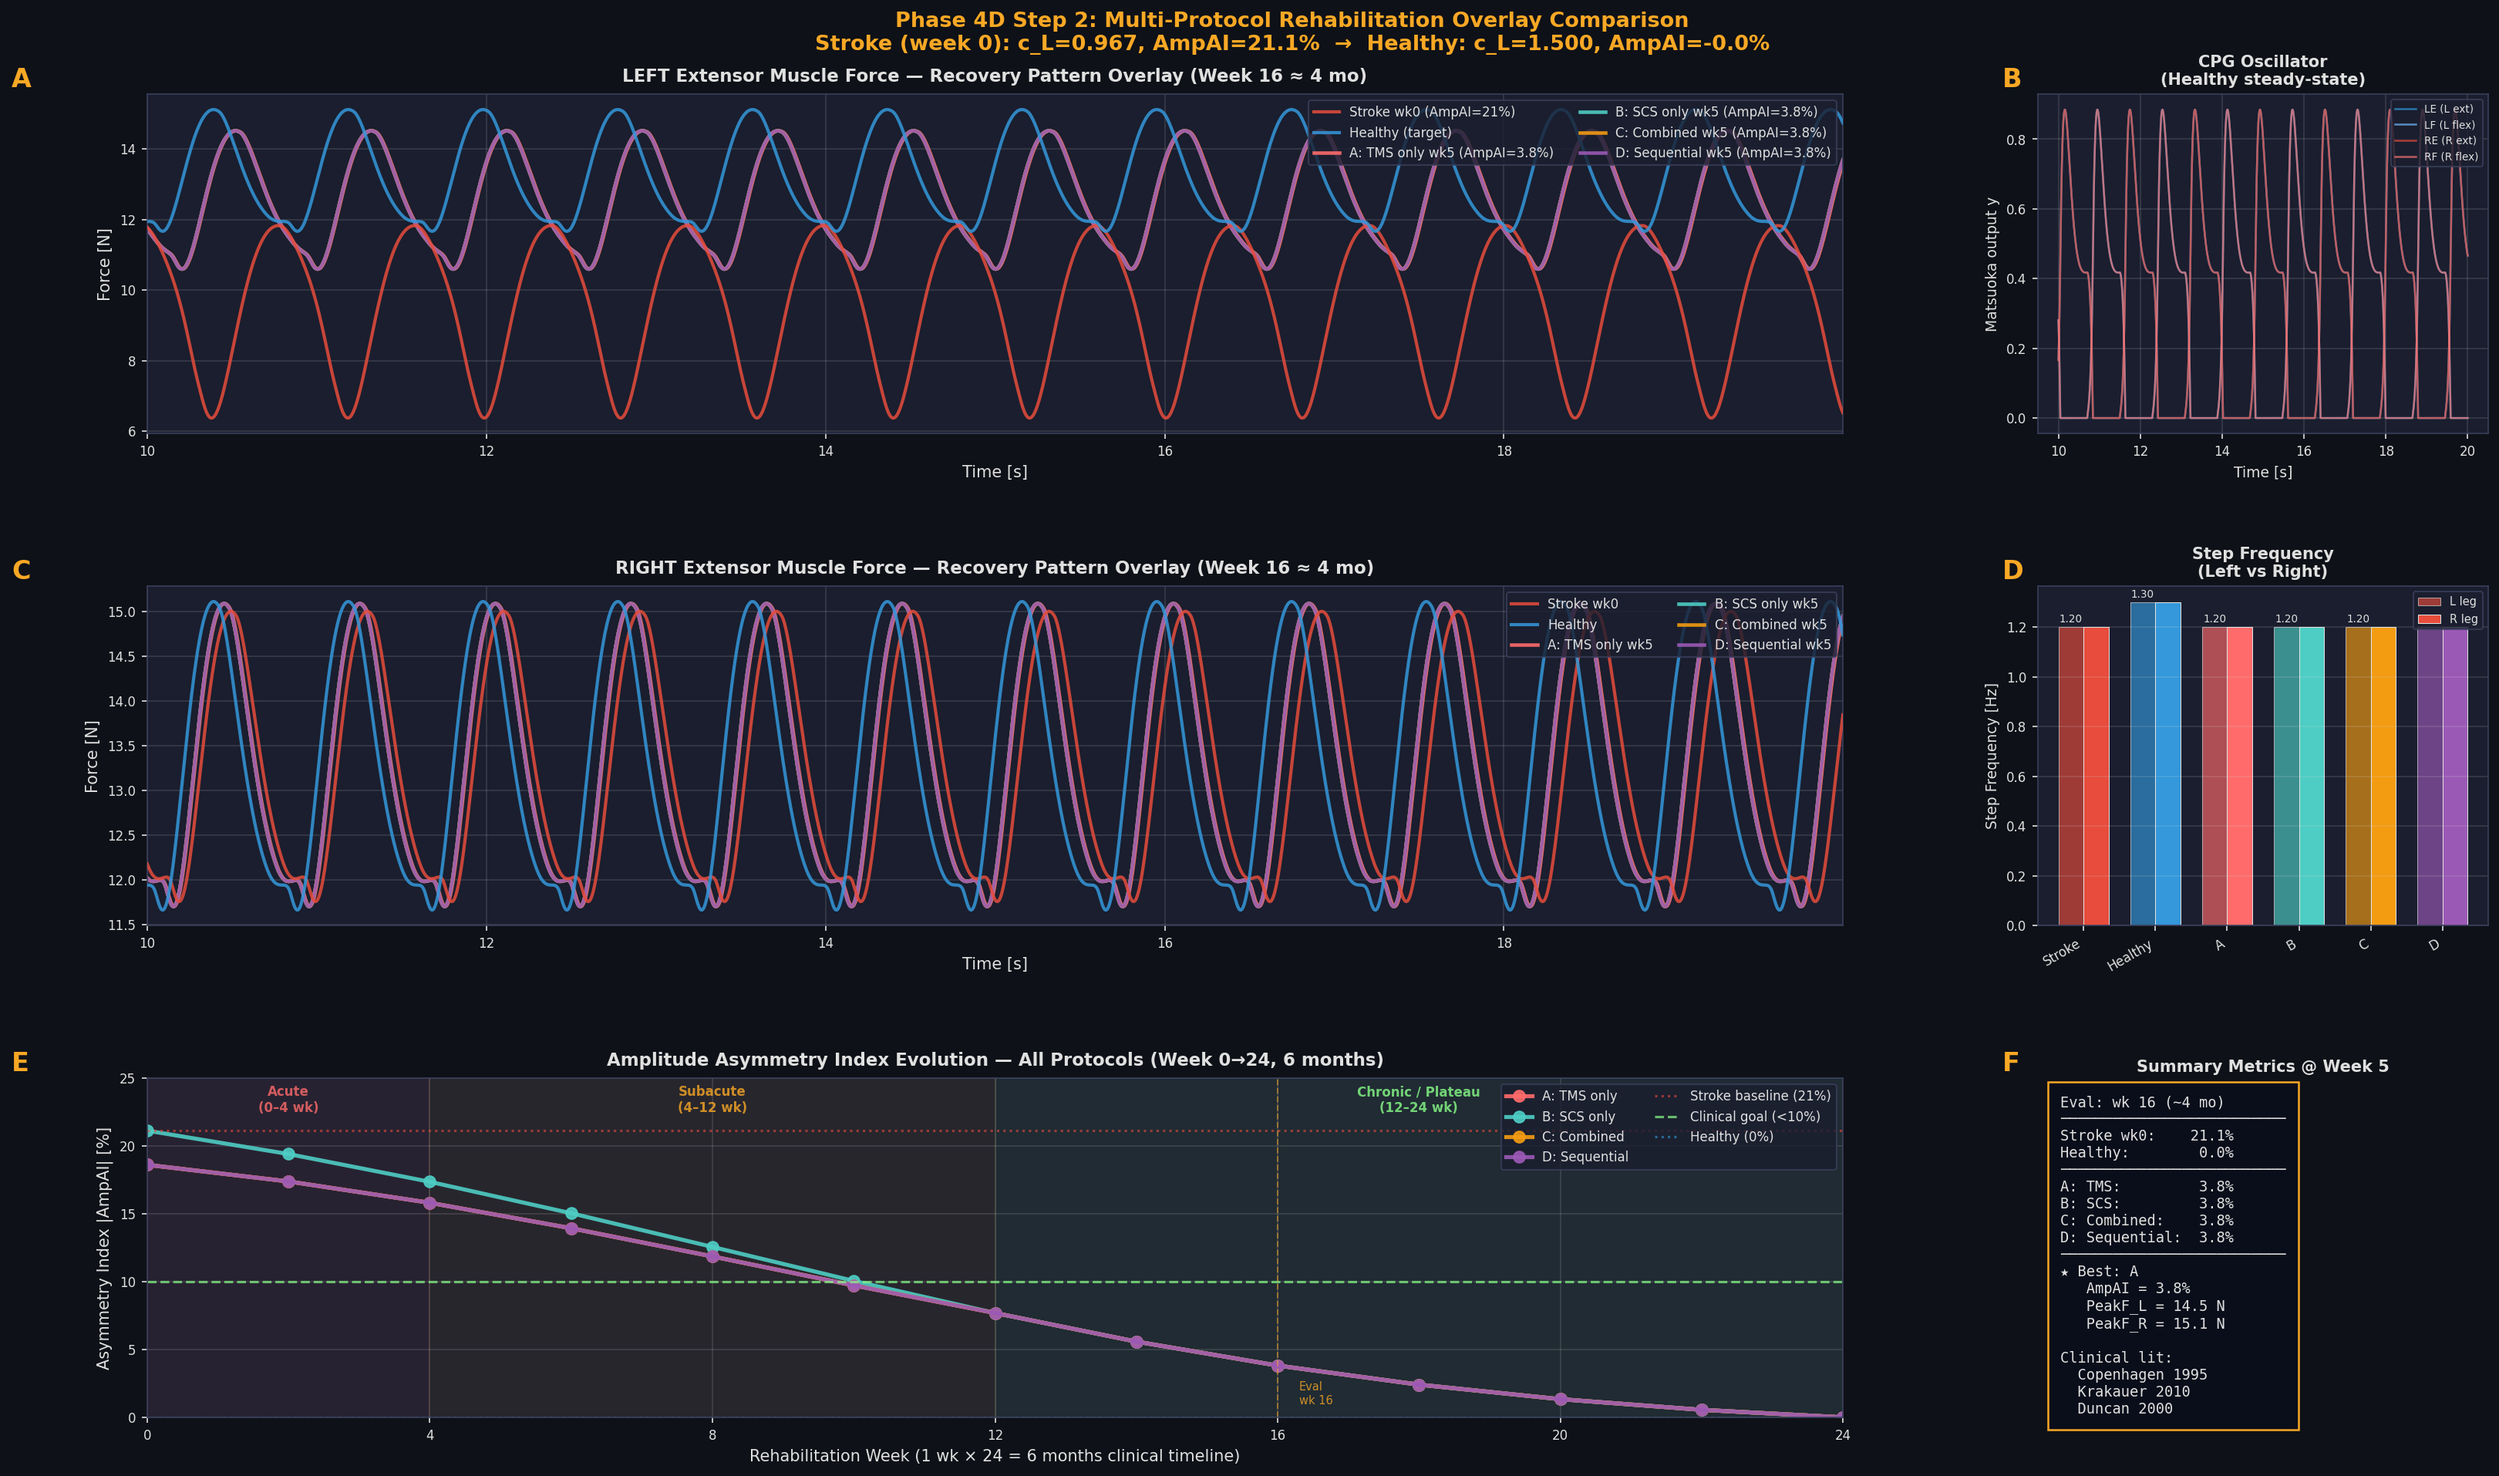
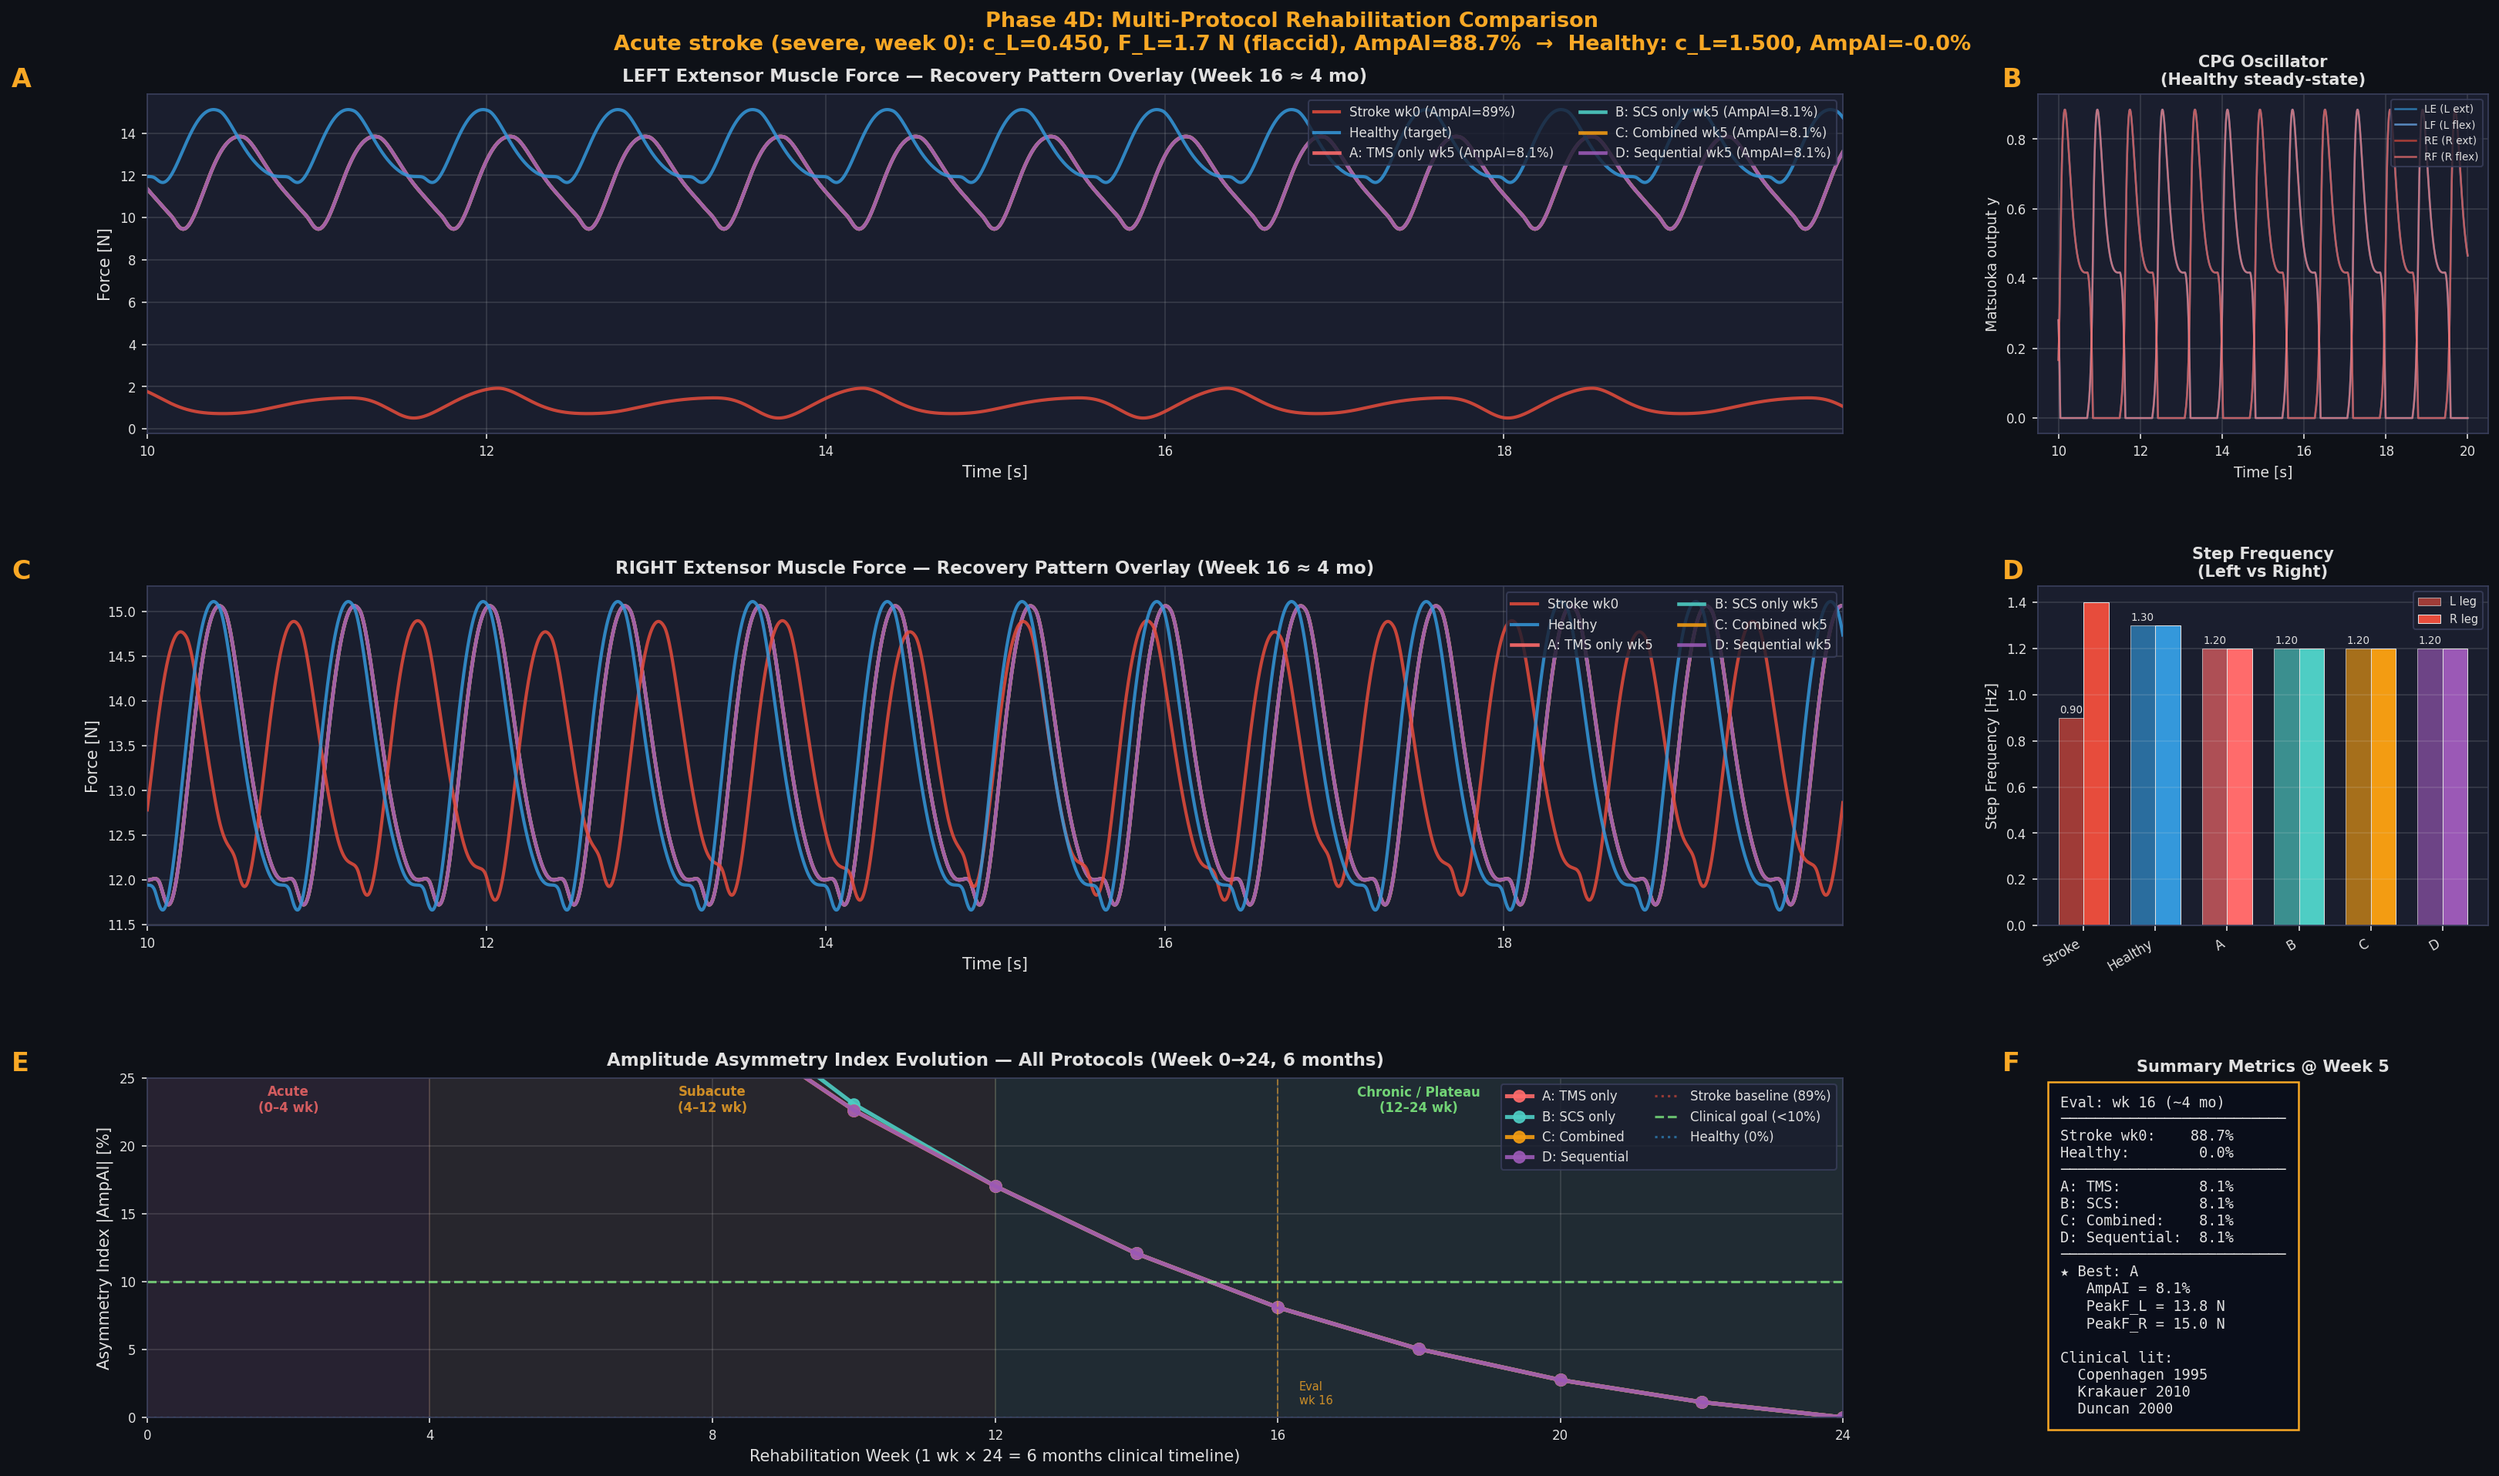
Phase 4D: start recovery from flaccid acute stroke (wire in Phase 2B)
The consolidation made the comparison call p2.simulate (which carries the
recruitment/flaccid model), but it still started recovery from the MILD
Phase-1 deficit (c≈0.97, above the recruitment threshold) — so the flaccid
physiology was wired in but never shown.

Now the recovery starts from a clinically realistic ACUTE deficit
(ACUTE_SEVERITY='severe', c≈0.45, below recruitment threshold → flaccid limb,
force≈0 at week 0). Recovery raises descending drive back UP THROUGH the
recruitment threshold, so affected-limb force visibly returns mid-recovery.

Justification: acute hemiparesis exceeds the chronic CST drop (spinal shock,
diaschisis, oedema); recovery resolves the acute suppression. Configurable via
ACUTE_SEVERITY ('mild'/'moderate'/'severe'/'complete').

Effect on the figure:
  Stroke wk0 AmpAI: 21% -> 88.7% (flaccid affected limb, F_L≈0)
  Panel A: stroke baseline now flat near zero (was ~80% amplitude)
  Panel E: AmpAI evolution sweeps 89% -> ~0 over 24 weeks (recruitment
           threshold crossed mid-recovery)
  Recovery endpoint unchanged (protocols reach symmetric gait)

diff --git a/tvb_phase4d_rehab_comparison.py b/tvb_phase4d_rehab_comparison.py
@@ -46,7 +46,19 @@ spec.loader.exec_module(p2)
 
 scales = p2.load_phase1_scales()
 C0 = p2.C0
-c_stroke = C0 * scales["scale_L"]
+
+# ── Acute stroke severity (Phase 2B) ──────────────────────────────────────
+# The recovery trajectory now STARTS from a clinically realistic acute deficit.
+# Acute hemiparesis is more severe than the chronic CST drop (spinal shock,
+# diaschisis, peri-lesional oedema): below the motoneuron-recruitment threshold
+# the affected limb is FLACCID (force ≈ 0).  Recovery raises the descending
+# drive back UP THROUGH the recruitment threshold, so force visibly returns
+# part-way through rehabilitation.
+#   "severe"   → c≈0.45, ~23% recruitable force at onset (near-flaccid)
+#   "complete" → c≈0.30, ~5%  (fully flaccid)
+#   "mild"     → c≈0.97, original Phase-1 TVB deficit (no flaccidity)
+ACUTE_SEVERITY = "severe"
+c_stroke = C0 * p2.STROKE_SEVERITY[ACUTE_SEVERITY]
 c_healthy = C0
 c_R = C0 * scales["scale_R"]
 
@@ -219,8 +231,9 @@ def make_unified_comparison_figure():
 
     # Suptitle replaces the removed pipeline row
     fig.suptitle(
-        "Phase 4D Step 2: Multi-Protocol Rehabilitation Overlay Comparison\n"
-        f"Stroke (week 0): c_L={c_stroke:.3f}, AmpAI={m_stroke['ai']*100:.1f}%  →  "
+        "Phase 4D: Multi-Protocol Rehabilitation Comparison\n"
+        f"Acute stroke ({ACUTE_SEVERITY}, week 0): c_L={c_stroke:.3f}, "
+        f"F_L={m_stroke['amp_L']:.1f} N (flaccid), AmpAI={m_stroke['ai']*100:.1f}%  →  "
         f"Healthy: c_L={c_healthy:.3f}, AmpAI={m_healthy['ai']*100:.1f}%",
         fontsize=13, fontweight="bold", color=ACCENT, y=0.985)
 
